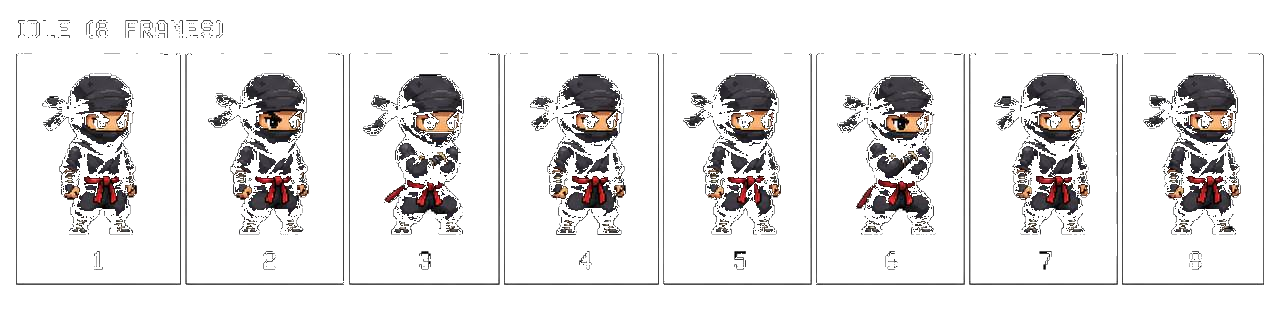
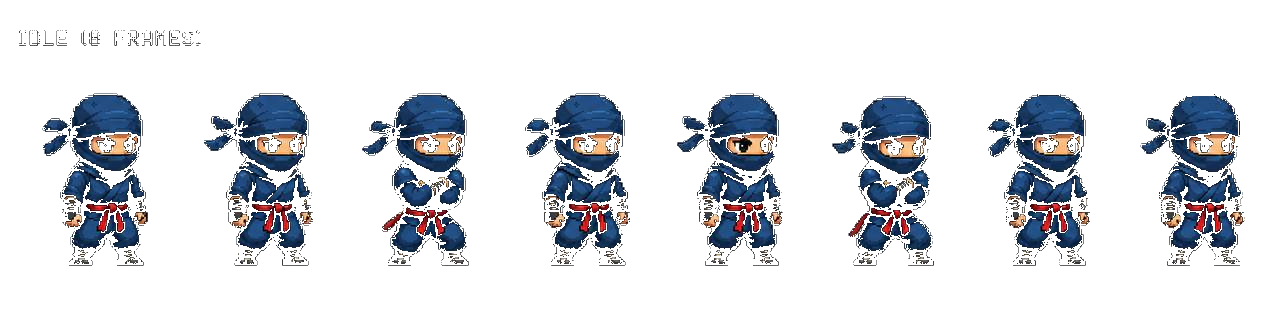
V262: Ninja idle + run sprites replaced with new art (8f each, bg removed)

diff --git a/config.js b/config.js
@@ -1,4 +1,4 @@
-window.GAME_VERSION = "V261";
+window.GAME_VERSION = "V262";
 window.HARDCORE_HP_MULTIPLIER = 3.0; 
 window.LEVEL_CLEAR_HEAL_PERCENT = 0.5;
 window.DEBUG_SHOW_HITBOX = false;
